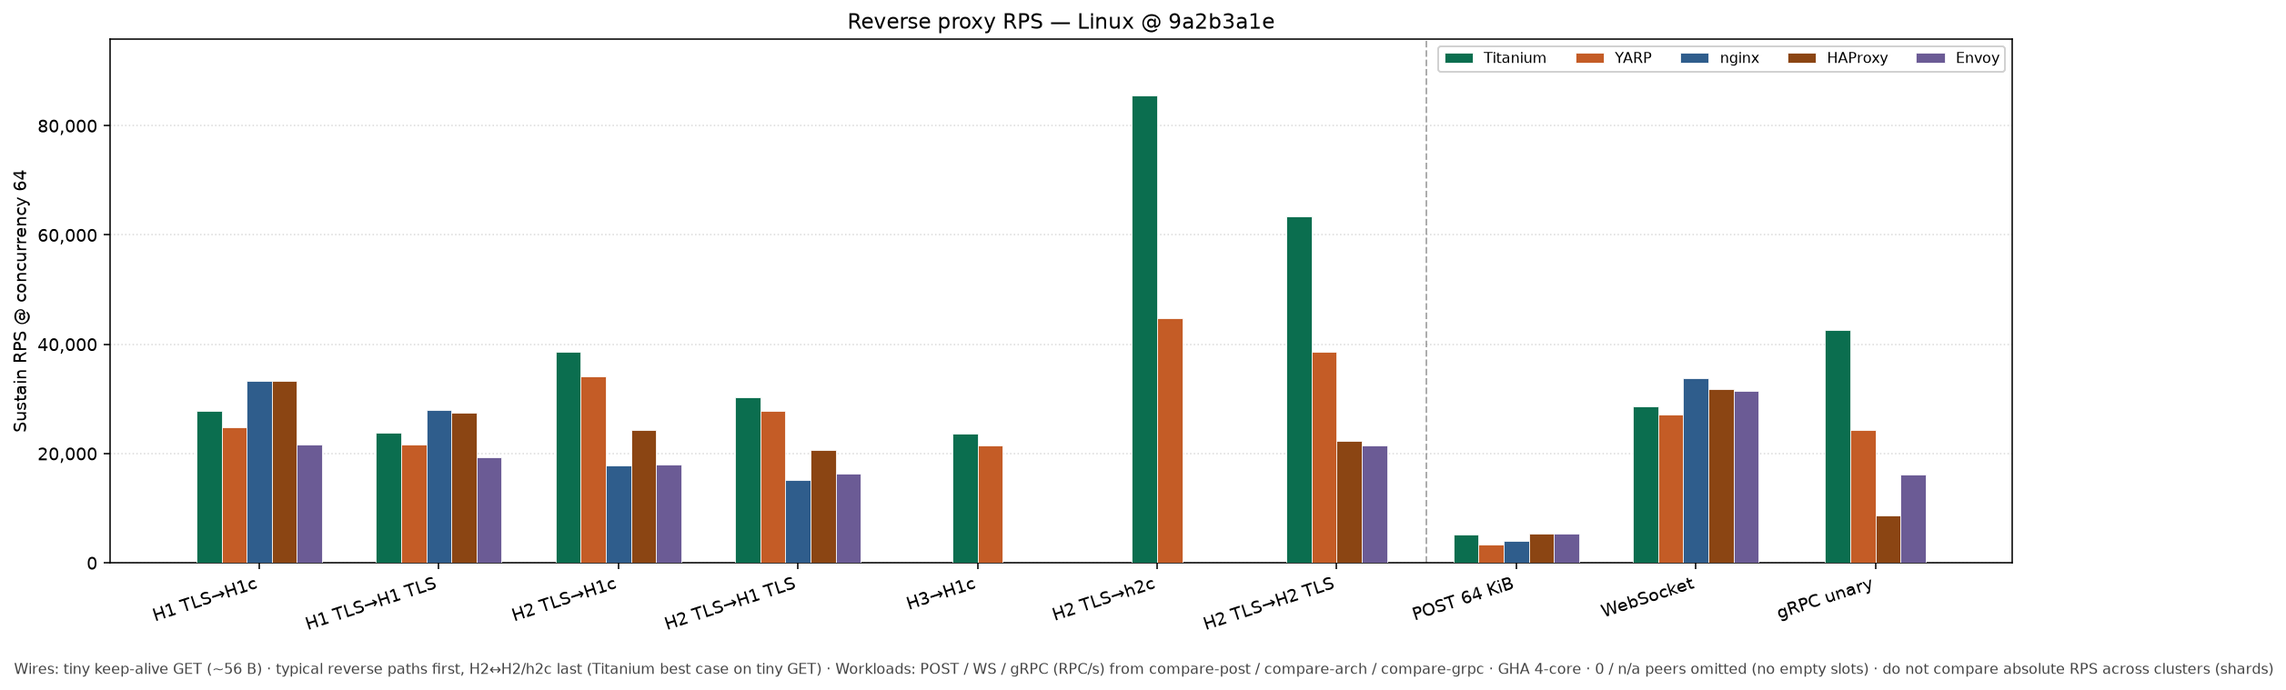
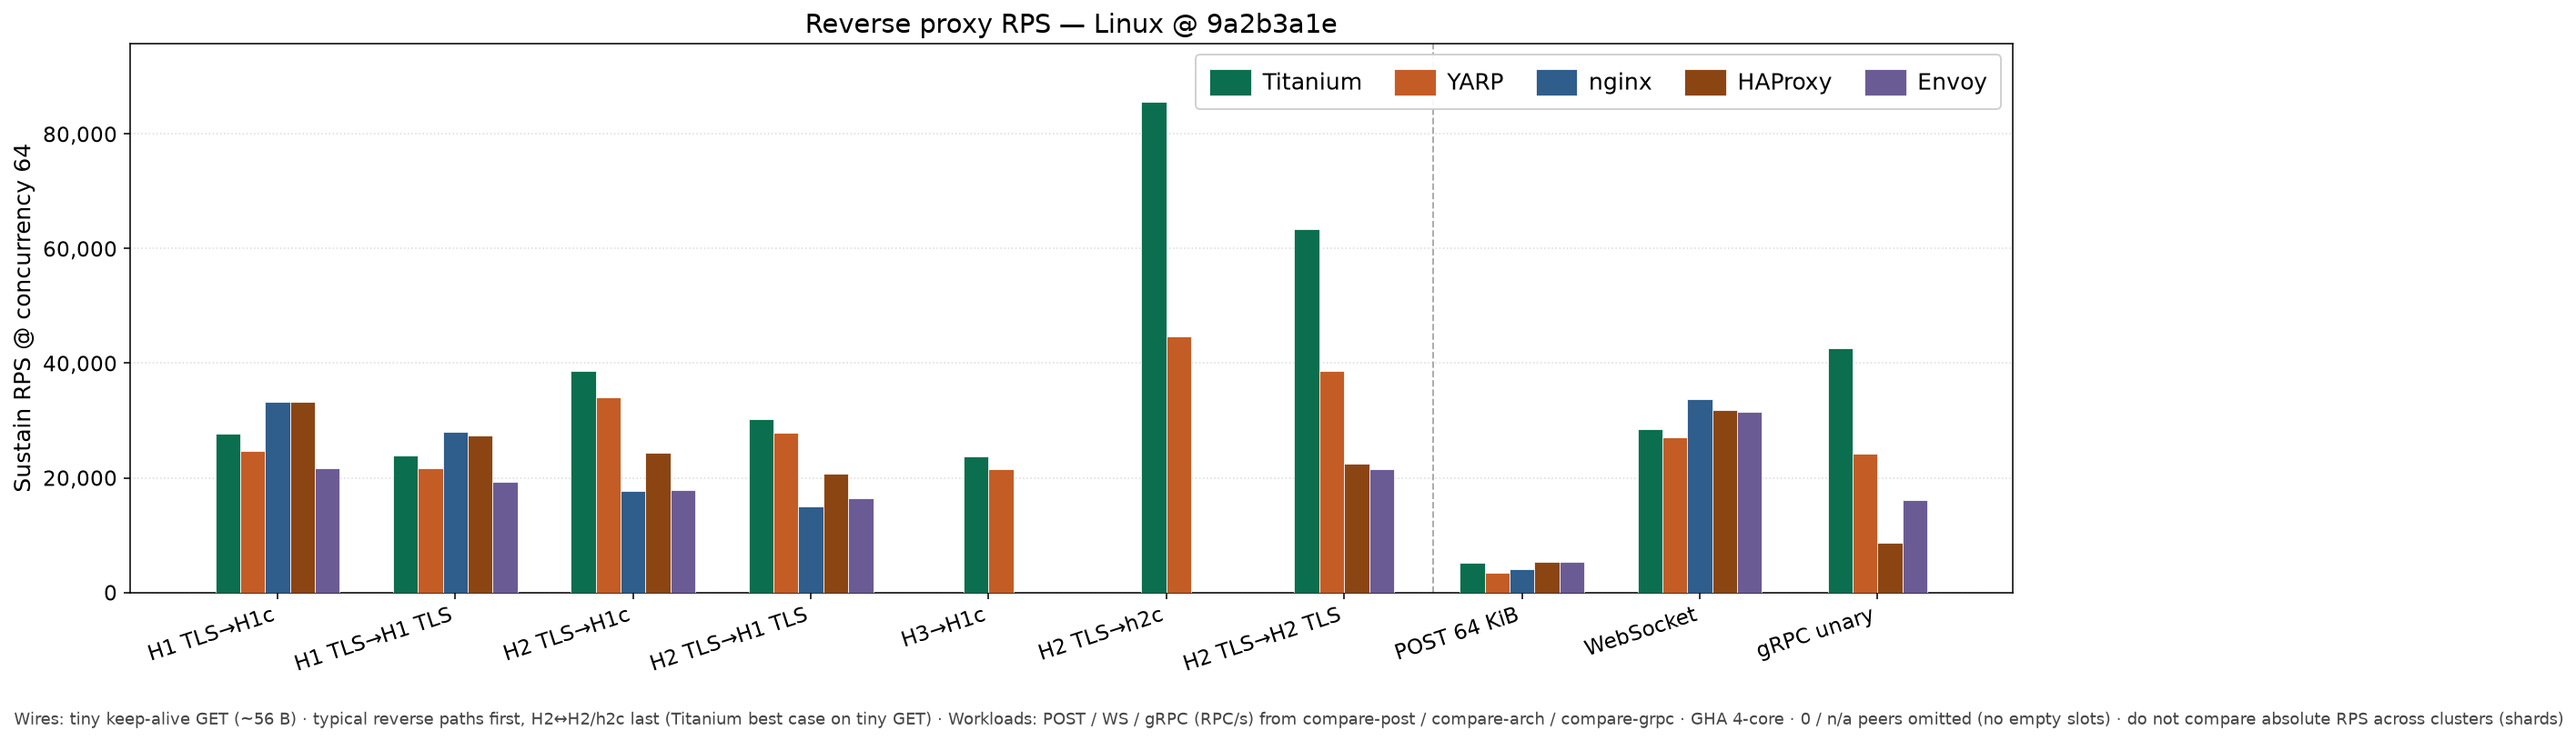
Enlarge practical RPS chart legend and axis fonts so product labels stay readable.

diff --git a/tools/RpsLoadProbe/render-practical-charts.py b/tools/RpsLoadProbe/render-practical-charts.py
@@ -601,7 +601,7 @@ def render_chart(
     x = np.arange(len(labels), dtype=float)
 
     fig_w = 16.0 if len(labels) >= 10 else 14.5
-    fig, ax = plt.subplots(figsize=(fig_w, 5.4), dpi=140)
+    fig, ax = plt.subplots(figsize=(fig_w, 5.8), dpi=140)
     ymax = plot_packed_product_bars(ax, series, x)
 
     if workload_start is not None and 0 < workload_start < len(labels):
@@ -614,26 +614,38 @@ def render_chart(
             alpha=0.7,
         )
 
-    ax.set_ylabel("Sustain RPS @ concurrency 64")
+    ax.set_ylabel("Sustain RPS @ concurrency 64", fontsize=13)
     title = f"Reverse proxy RPS — {os_title}"
     if title_suffix:
         title = f"{title} {title_suffix}"
-    ax.set_title(title)
+    ax.set_title(title, fontsize=15)
     ax.set_xticks(x)
-    ax.set_xticklabels(labels, rotation=18, ha="right")
+    ax.set_xticklabels(labels, rotation=18, ha="right", fontsize=12)
+    ax.tick_params(axis="y", labelsize=12)
     ax.set_ylim(0, ymax * 1.12)
     ax.yaxis.set_major_formatter(plt.FuncFormatter(lambda v, _: f"{int(v):,}"))
     ax.grid(axis="y", linestyle=":", alpha=0.45, zorder=0)
-    ax.legend(loc="upper right", framealpha=0.92, ncols=5, fontsize=8)
+    ax.legend(
+        loc="upper right",
+        framealpha=0.92,
+        ncols=5,
+        fontsize=13,
+        handlelength=1.8,
+        handleheight=1.4,
+        borderpad=0.6,
+        labelspacing=0.45,
+        columnspacing=1.4,
+        handletextpad=0.5,
+    )
     ax.set_axisbelow(True)
     fig.text(
         0.01,
         0.01,
         footer or MERGED_FOOTER,
-        fontsize=8,
+        fontsize=9,
         color="#444444",
     )
-    fig.tight_layout(rect=(0, 0.04, 1, 1))
+    fig.tight_layout(rect=(0, 0.05, 1, 1))
     out_path.parent.mkdir(parents=True, exist_ok=True)
     fig.savefig(out_path, bbox_inches="tight")
     plt.close(fig)
